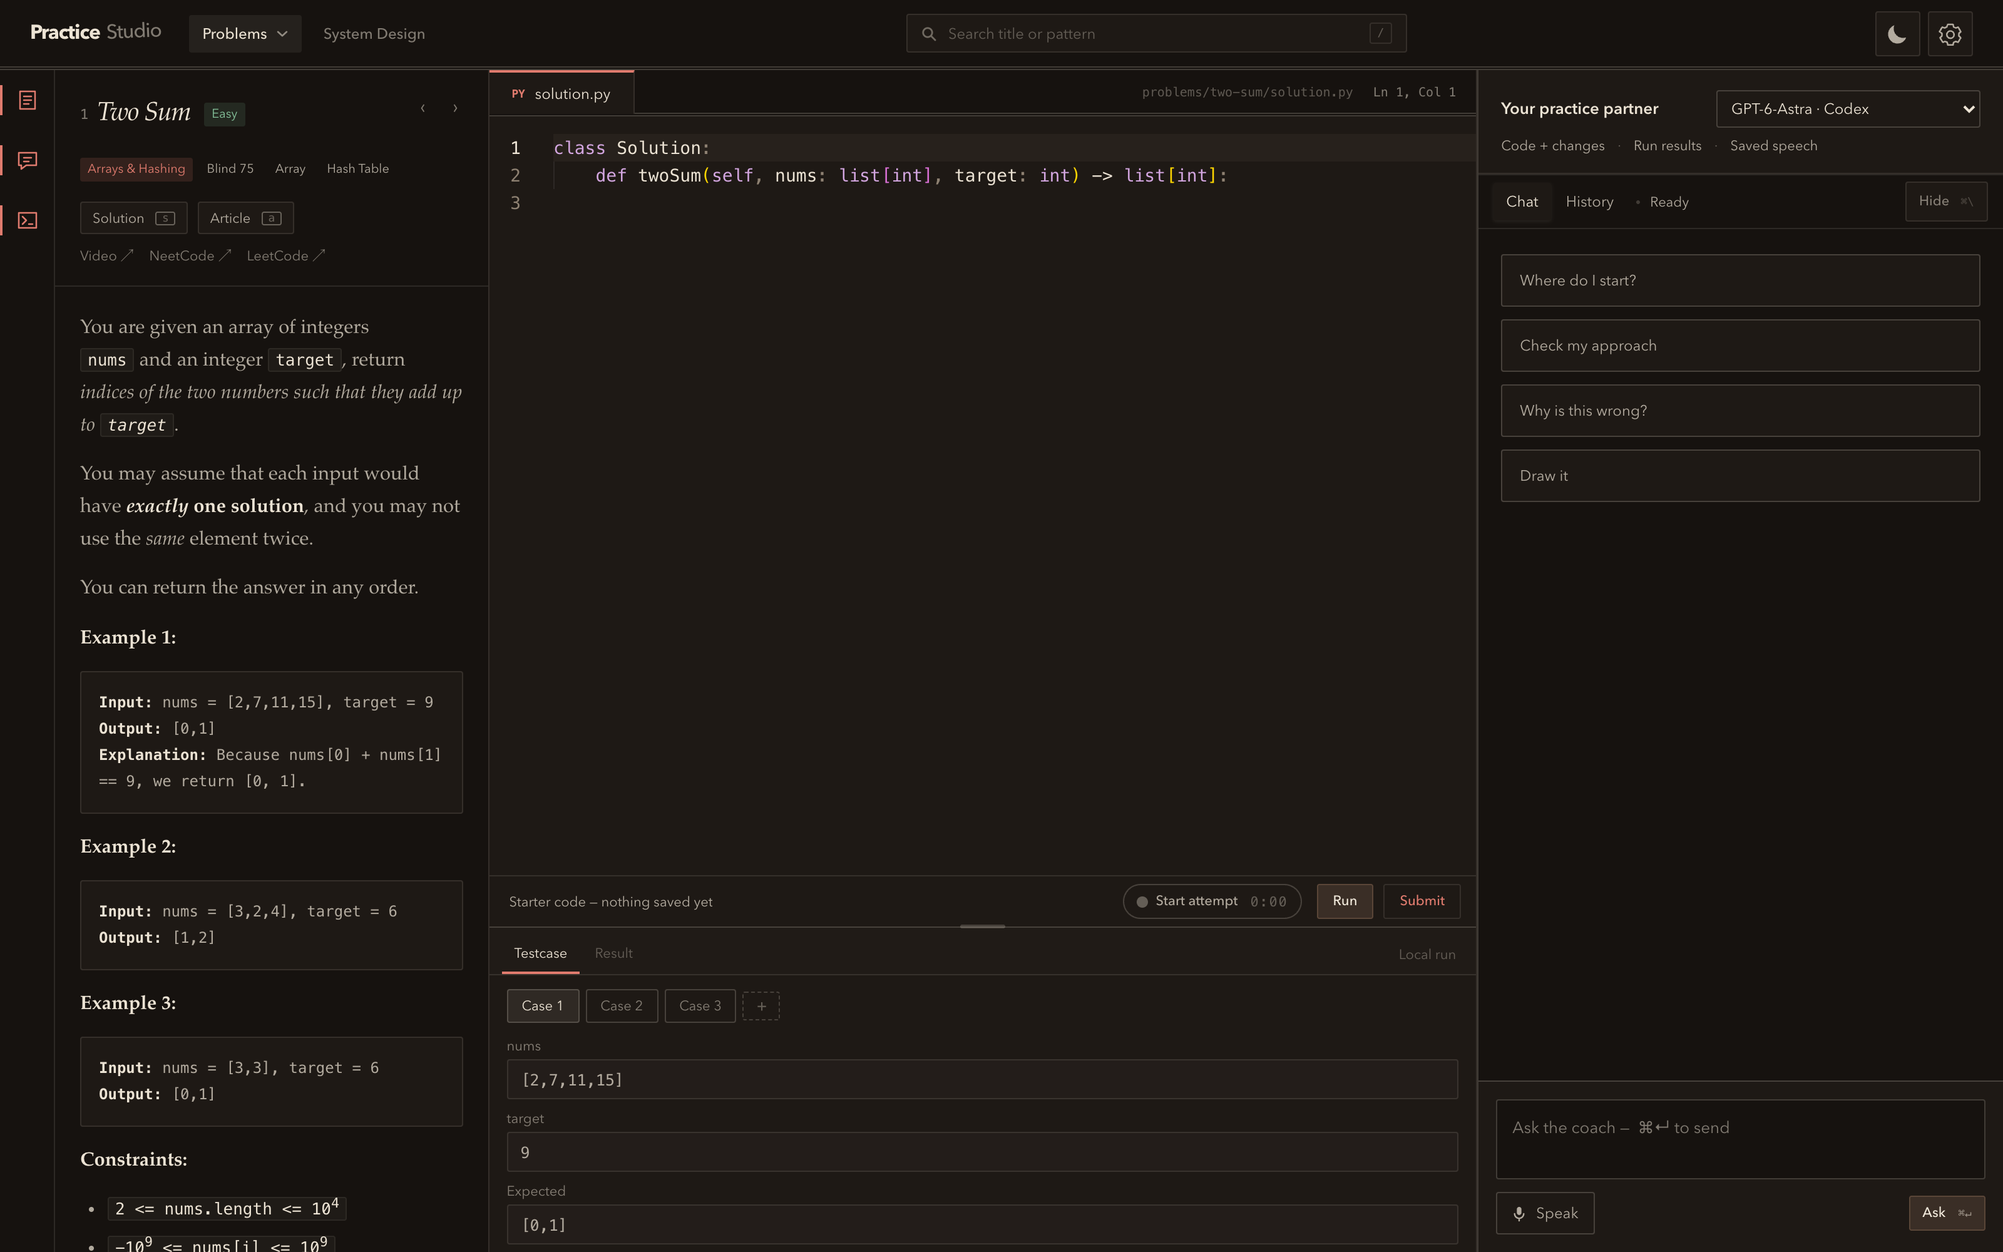
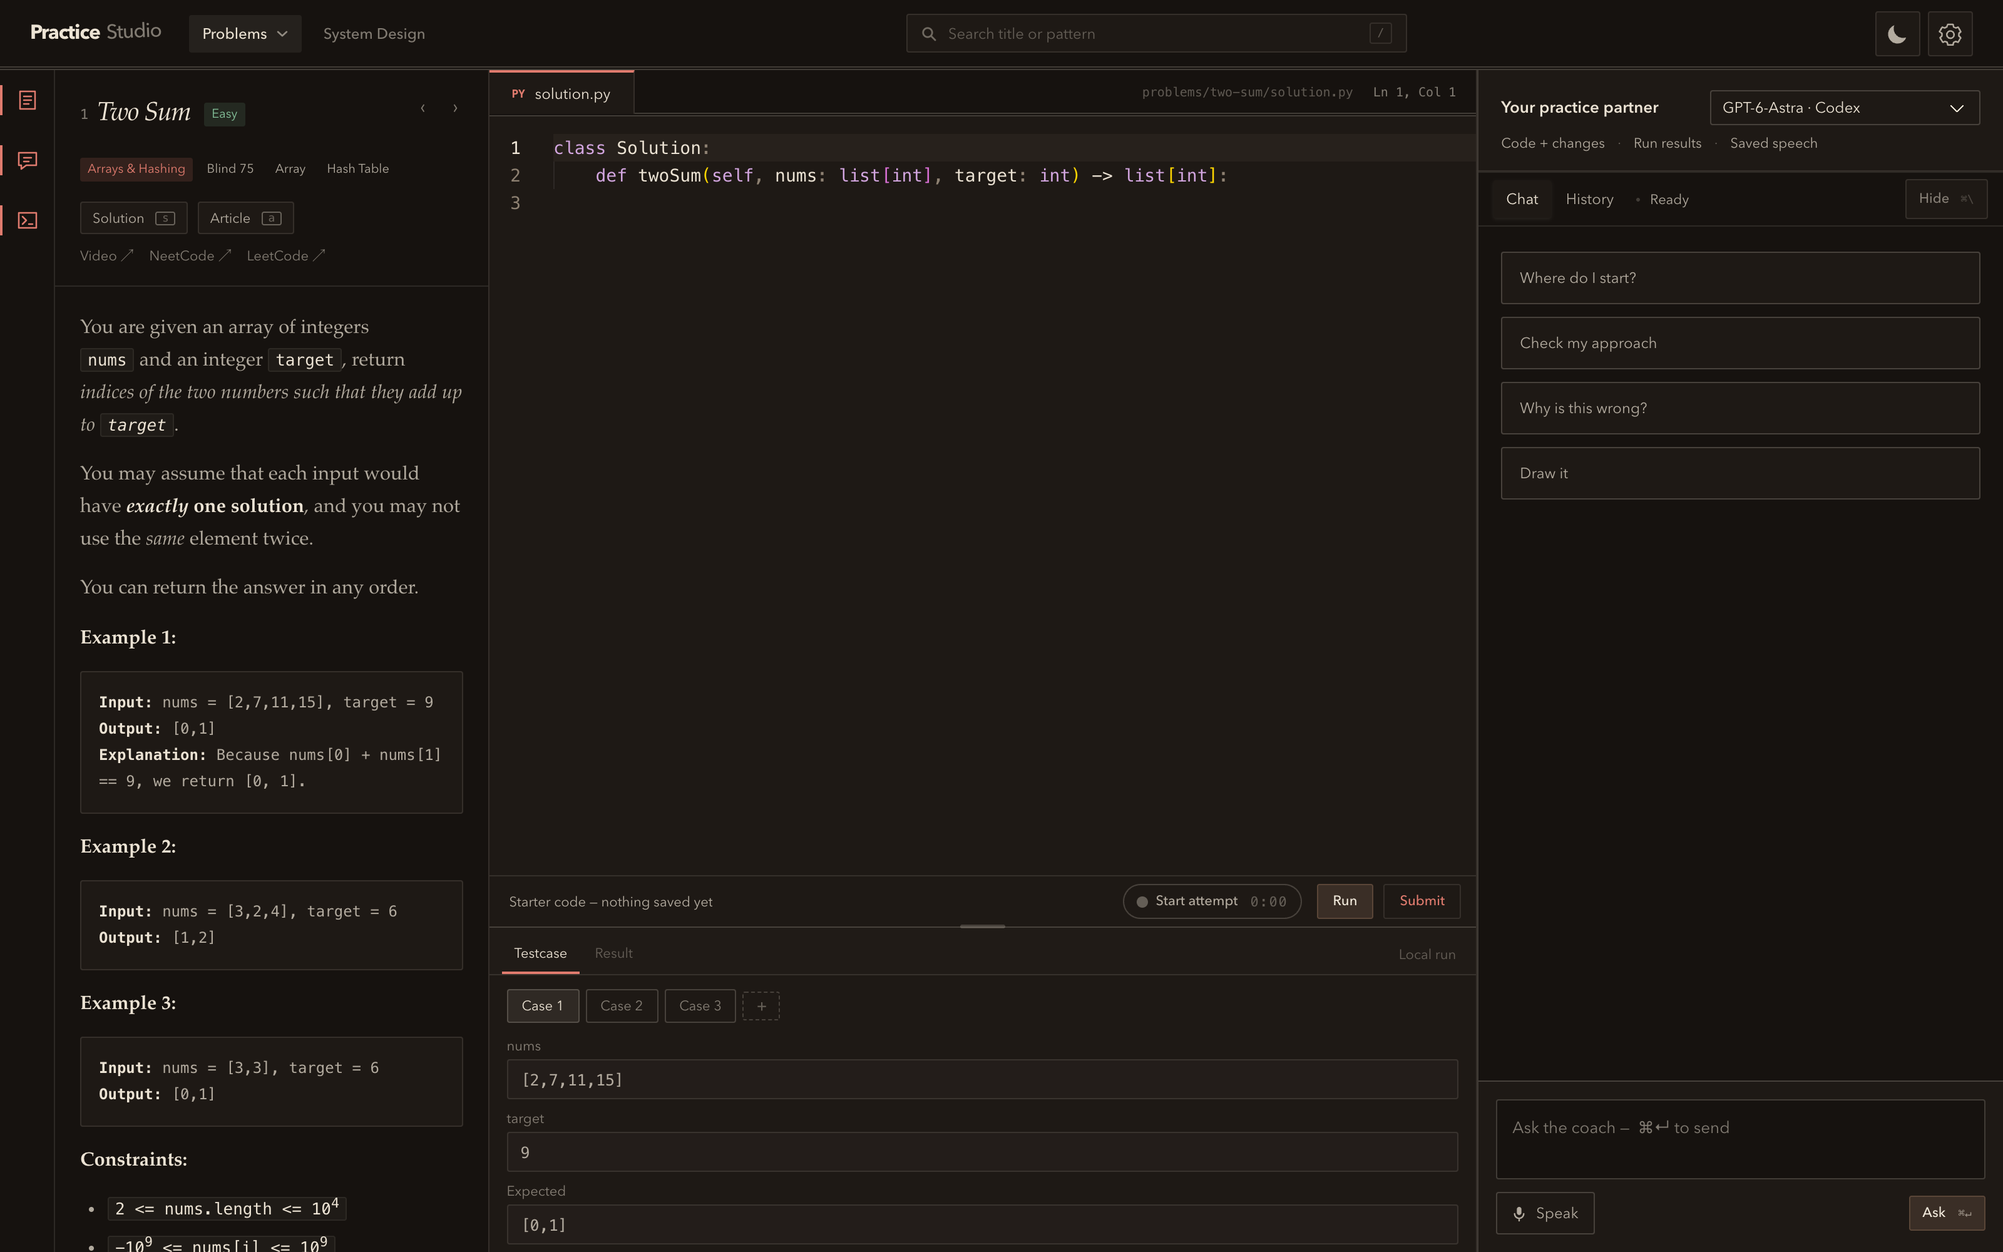
Give Ink and Terminal a structure of their own; pad the select arrow
Ink and Terminal read as Studio with a different font. Now:
- Ink: the top bar, editor tab strip and coach header are solid black bars (white
  in dark mode), inverted by re-scoping the palette tokens on them; 2px black rules
  between panes; heavy titles; outlined, bold chips.
- Terminal: panes are split windows with a 6px gap, the action bar is an inverted
  vim-style status line, tabs and bar buttons are [ bracketed ] words, headings get a
  $ prompt and the conversation # and > markers.

Selects draw their own chevron 12px in from the edge, in currentColor, instead of
the native arrow that sat flush against the border.

diff --git a/web/css/themes.css b/web/css/themes.css
@@ -219,6 +219,8 @@ body.theme-editorial.is-dark{
 }
 
 body.theme-ink{
+  --bar-bg:#0A0A0A;
+  --bar-rgb:255,255,255;
   --ink-rgb:10,10,10;
   --on-ink-rgb:237,237,234;
   --on-ink:#EDEDEA;
@@ -256,6 +258,8 @@ body.theme-ink{
 }
 
 body.theme-ink.is-dark{
+  --bar-bg:#F4F4F0;
+  --bar-rgb:11,11,11;
   --ink-rgb:244,244,240;
   --on-ink-rgb:11,11,11;
   --on-ink:#0B0B0B;
@@ -292,6 +296,8 @@ body.theme-ink.is-dark{
 }
 
 body.theme-terminal{
+  --line-bg:#17301F;
+  --line-rgb:243,241,231;
   --ink-rgb:23,48,31;
   --on-ink-rgb:243,241,231;
   --on-ink:#F3F1E7;
@@ -329,6 +335,8 @@ body.theme-terminal{
 }
 
 body.theme-terminal.is-dark{
+  --line-bg:#7EFFA8;
+  --line-rgb:5,11,7;
   --ink-rgb:126,255,168;
   --on-ink-rgb:5,11,7;
   --on-ink:#050B07;
@@ -384,21 +392,71 @@ body.theme-editorial .topbar,body.theme-editorial .editor-tabs{border-bottom:3px
 body.theme-editorial .rr-case,body.theme-editorial .prow{border-bottom:1px dashed var(--hair-20)}
 body.theme-editorial .desc{font-size:15px;line-height:1.8}
 
-body.theme-ink :is(.card,.psec,.dash-card,.roadmap-node,button,.tag,input,textarea,select){border-width:var(--rule)}
-body.theme-ink :is(.phero,.viewhead,.dash-head,.roadmap) h1{font-weight:800;letter-spacing:-.04em}
-body.theme-ink .editor-file{border-top-width:3px}
-body.theme-ink .rr-tab[aria-pressed="true"]{border-bottom-width:3px}
+/* INK — a Swiss poster. The headers of the app are solid black bars (white in dark mode),
+   rules are 2px and black, titles are heavy, and choices are solid chips. The bars are
+   inverted by re-scoping the palette tokens on them, so everything inside (search, nav,
+   the model picker, the file tab) inverts with them without a rule of its own. */
+body.theme-ink :is(.topbar,.editor-tabs,.coach-identity){
+  --ink-rgb:var(--bar-rgb);--ink:rgb(var(--bar-rgb));
+  --ink-70:rgba(var(--bar-rgb),.78);--ink-50:rgba(var(--bar-rgb),.62);--ink-35:rgba(var(--bar-rgb),.45);
+  --hair-20:rgba(var(--bar-rgb),.42);--hair-10:rgba(var(--bar-rgb),.26);--hair-06:rgba(var(--bar-rgb),.14);
+  --canvas:var(--bar-bg);--card:var(--bar-bg);
+  background:var(--bar-bg);color:var(--ink);border-bottom-color:var(--bar-bg)}
+body.theme-ink .topbar{border-bottom:0}
+body.theme-ink .editor-file{border-top-width:4px;border-right:0;font-weight:700}
+body.theme-ink :is(.card,.psec,.dash-card,.roadmap-node,button,.tag,input,textarea,select){border-width:2px}
+body.theme-ink :is(h1,h2,h3){font-weight:800;letter-spacing:-.035em}
+body.theme-ink :is(.viewhead,.dash-head,.roadmap) h1{font-size:44px;letter-spacing:-.05em}
+body.theme-ink.ws-wide .phero h1{font-size:28px;letter-spacing:-.05em}
+body.theme-ink .tag{background:transparent;border:2px solid currentColor;font-weight:700}
+body.theme-ink.ws-wide .tag.pattern{background:var(--accent);color:var(--on-ink);border-color:var(--accent)}
+body.theme-ink .rr-tab[aria-pressed="true"]{border-bottom-width:4px;border-bottom-color:var(--ink);font-weight:700}
+body.theme-ink.ws-wide .ws{border-inline:2px solid var(--ink)}
+body.theme-ink.ws-wide .ws>.ws-bar,body.theme-ink.ws-wide .rr-tabs{border-color:var(--ink);border-width:2px}
+body.theme-ink.ws-wide .workspace-rail{border-right:2px solid var(--ink)}
+body.theme-ink.ws-wide .coach{border-left:2px solid var(--ink)}
+body.theme-ink.ws-wide .paneltoggles{border-bottom:2px solid var(--ink)}
+body.theme-ink .workspace-rail button[aria-pressed="true"]{color:var(--ink)}
+body.theme-ink .workspace-rail button[aria-pressed="true"]::before{background:currentColor;width:4px}
 body.theme-ink .settings,body.theme-ink .navmenu,body.theme-ink:not(.ws-wide) .card,body.theme-ink .catalog .psec{box-shadow:var(--shadow)}
 /* Pressed choices go solid. Not tabs and the rail, whose pressed state is an underline or an
    accent mark, and not the day/night switch, whose pressed state just means "dark". */
 body.theme-ink button[aria-pressed="true"]:not(.workspace-rail button,.rr-tab,.coach-tab,.set-daynight),body.theme-ink .tc-tab.is-on{background:var(--solid-bg);color:var(--solid-fg);border-color:var(--solid-edge)}
-
-body.theme-terminal .topbar,body.theme-terminal .editor-tabs,body.theme-terminal .rr-case{border-bottom-style:dashed}
-body.theme-terminal .ws-run{background:var(--accent);color:var(--on-ink);border-color:var(--accent)}
-body.theme-terminal :is(h1,h2,h3),body.theme-terminal :is(.phero,.viewhead,.dash-head,.roadmap) h1{font-weight:600;letter-spacing:0}
-body.theme-terminal .cmsg.reply .cmsg-body{font-size:12px;line-height:1.8}
-
 body.theme-ink .set-card[aria-pressed="true"] :is(.set-cardname,.set-cardblurb){color:var(--solid-fg)}
+
+/* TERMINAL — a TUI in a tmux session. The panes are split windows with a gap between
+   them, the action bar is a vim status line, controls are [ bracketed ] words rather than
+   boxes, and the conversation reads as prompts. */
+body.theme-terminal.ws-wide{--pane-gap:6px}
+body.theme-terminal .topbar,body.theme-terminal .editor-tabs,body.theme-terminal .rr-case{border-bottom-style:dashed}
+@media(min-width:1081px){
+  body.theme-terminal.ws-wide .pbody.with-workspace{padding:6px 6px 6px 0}
+  body.theme-terminal.ws-wide .workspace-rail{border-right:0;background:transparent}
+  body.theme-terminal.ws-wide :is(.pcol,.ws,.coach){border:1px solid var(--hair-20);background:var(--card)}
+  body.theme-terminal.ws-wide .pcol{overflow-y:auto}
+}
+/* The status line: the palette flipped, like vim's. */
+body.theme-terminal.ws-wide .ws>.ws-bar{
+  --ink-rgb:var(--line-rgb);--ink:rgb(var(--line-rgb));
+  --ink-70:rgba(var(--line-rgb),.82);--ink-50:rgba(var(--line-rgb),.66);--ink-35:rgba(var(--line-rgb),.5);
+  --hair-20:rgba(var(--line-rgb),.45);--hair-10:rgba(var(--line-rgb),.3);--hair-06:rgba(var(--line-rgb),.16);
+  --card:var(--line-bg);--canvas:var(--line-bg);
+  background:var(--line-bg);color:var(--ink);border-top:0}
+body.theme-terminal.ws-wide .ws>.ws-bar .ws-run{background:var(--accent);color:var(--on-ink);border-color:var(--accent)}
+body.theme-terminal .ws-run{background:var(--accent);color:var(--on-ink);border-color:var(--accent)}
+body.theme-terminal :is(.ws-bar button,.rr-tab,.coach-tab,.tc-tab){border-color:transparent;background:transparent;box-shadow:none}
+body.theme-terminal :is(.ws-bar button,.rr-tab,.coach-tab,.tc-tab)::before{content:"[";margin-right:3px;opacity:.6}
+body.theme-terminal :is(.ws-bar button,.rr-tab,.coach-tab,.tc-tab)::after{content:"]";margin-left:3px;opacity:.6}
+body.theme-terminal :is(.rr-tab,.coach-tab)[aria-pressed="true"],body.theme-terminal .tc-tab.is-on,body.theme-terminal .ptoggle[aria-pressed="true"]{background:var(--line-bg);color:rgb(var(--line-rgb));border-color:var(--line-bg)}
+body.theme-terminal :is(h1,h2,h3){font-weight:600;letter-spacing:0}
+body.theme-terminal :is(.phero,.viewhead,.dash-head,.roadmap) h1::before{content:"$ ";color:var(--accent)}
+body.theme-terminal.is-dark :is(h1,h2,h3,.wordmark){text-shadow:0 0 8px rgba(var(--ink-rgb),.45)}
+body.theme-terminal .tag,body.theme-terminal .ptoggle{background:transparent;border:1px dashed currentColor}
+body.theme-terminal.ws-wide .ws>.ws-bar .ws-submit{color:var(--ink)}
+body.theme-terminal .cmsg-who::before{content:"# ";color:var(--accent)}
+body.theme-terminal .cmsg.you .cmsg-body::before{content:"> ";color:var(--accent)}
+body.theme-terminal .cmsg.reply .cmsg-body{font-size:12px;line-height:1.8}
+body.theme-terminal .coach-input{caret-color:var(--accent)}
 
 /* Each card previews both modes, independently of the active appearance. */
 .set-seg{display:flex;gap:3px;padding:3px;border:1px solid var(--hair-20);border-radius:var(--r-md);background:var(--canvas)}

diff --git a/docs/showcase.html b/docs/showcase.html
@@ -34,7 +34,7 @@
   <div class="feature-copy"><span class="eyebrow">03 / The board is part of the conversation</span><h2>It follows<br>your architecture.</h2><p>Draw on a real Excalidraw canvas. Studio turns components and connections into a graph for the interviewer, including what changed since the last turn.</p><blockquote>“You said the creation service populates Redis, but the board only connects it to Postgres.”</blockquote><p class="fine">Scripted demo response. In real interviews, the latest board graph accompanies your next answer.</p></div>
   <figure><img src="images/system-design.png" width="3200" height="2000" loading="lazy" alt="URL-shortener whiteboard beside an interviewer challenging a missing cache-write connection"><figcaption>A missing arrow becomes a question about failure behavior.</figcaption></figure>
 </section>
-<section class="themes" id="themes"><div class="section-head"><div><span class="eyebrow">Five themes. Light and dark.</span><h2>Find your atmosphere.</h2></div><p>Each treatment changes how evidence reads.<br>Choose the one that helps you stay with the work.</p></div><div class="theme-controls" role="group" aria-label="Preview a workspace theme"></div><figure class="theme-stage"><img id="theme-image" src="images/theme-studio-light.png" width="3200" height="2000" loading="lazy" alt="Studio theme: clean and docked, panes meet edge to edge"><figcaption id="theme-caption">Studio — clean and docked, panes meet edge to edge.</figcaption></figure><div class="theme-notes"><p><b>Studio</b> docks the panes edge to edge. <b>Desk</b> floats them on warm paper. <b>Editorial</b> sets prose in serif with double rules. <b>Ink</b> uses hard edges and heavy rules. <b>Terminal</b> is monospaced throughout. Each one has a light and a dark mode.</p></div></section>
+<section class="themes" id="themes"><div class="section-head"><div><span class="eyebrow">Five themes. Light and dark.</span><h2>Find your atmosphere.</h2></div><p>Each treatment changes how evidence reads.<br>Choose the one that helps you stay with the work.</p></div><div class="theme-controls" role="group" aria-label="Preview a workspace theme"></div><figure class="theme-stage"><img id="theme-image" src="images/theme-studio-light.png" width="3200" height="2000" loading="lazy" alt="Studio theme: clean and docked, panes meet edge to edge"><figcaption id="theme-caption">Studio — clean and docked, panes meet edge to edge.</figcaption></figure><div class="theme-notes"><p><b>Studio</b> docks the panes edge to edge. <b>Desk</b> floats them on warm paper. <b>Editorial</b> sets prose in serif with double rules. <b>Ink</b> sets the headers in solid black bars with heavy rules. <b>Terminal</b> splits the panes like tmux, with a vim status line and bracketed controls. Each one has a light and a dark mode.</p></div></section>
 <section class="start" id="start"><span class="eyebrow">Local first. Source available.</span><h2>Your machine.<br><em>Your practice.</em></h2><div class="start-grid"><div><p>No Studio account. No hosted Studio backend. Your solutions, transcripts, and session records live on disk.</p><p class="fine">macOS · Node 22+ · Python 3. Claude Code is optional for coaching; voice additionally needs Swift 6, macOS 14+, and the speech model.</p><a class="button" href="https://github.com/dhirajcdry/practice-studio">Explore the repository ↗</a></div><pre><code>git clone https://github.com/dhirajcdry/practice-studio.git
 cd practice-studio
 npm start

diff --git a/web/css/app.css b/web/css/app.css
@@ -76,6 +76,12 @@ body{
 ::selection{background:var(--ink);color:var(--canvas)}
 a{color:inherit}
 button{font:inherit;color:inherit;background:none;border:0;cursor:pointer}
+/* The native select arrow sits flush against the right edge and ignores padding. This
+   one is drawn in currentColor, so it follows every theme, and sits 12px in. Rules that
+   colour a select set background-color, never the shorthand, or this disappears. */
+select:not([multiple]){appearance:none;-webkit-appearance:none;cursor:pointer;
+  background-image:linear-gradient(45deg,transparent 42%,currentColor 42%,currentColor 58%,transparent 58%),linear-gradient(-45deg,transparent 42%,currentColor 42%,currentColor 58%,transparent 58%);
+  background-position:calc(100% - 17.5px) 55%,calc(100% - 12.5px) 55%;background-size:5.5px 5.5px;background-repeat:no-repeat}
 :focus-visible{outline:2px solid var(--ink);outline-offset:2px;border-radius:var(--r-sm)}
 
 .mono{font-family:var(--mono);font-size:11px;letter-spacing:0;text-transform:none;font-weight:500;line-height:1.5}
@@ -867,7 +873,7 @@ body.coach-open .coach-launch{display:none}
 }
 .coach-identity-row{display:flex;align-items:center;justify-content:space-between;gap:8px;flex-wrap:wrap}
 .coach-model-picker{min-width:0;display:flex;flex-direction:column;gap:4px}
-.coach-model-select{max-width:100%;min-width:0;border:1px solid var(--hair-20);border-radius:var(--r-sm);background:var(--card);color:var(--ink);padding:5px 7px;font:12px var(--ui)}
+.coach-model-select{max-width:100%;min-width:0;border:1px solid var(--hair-20);border-radius:var(--r-sm);background-color:var(--card);color:var(--ink);padding:5px 30px 5px 9px;font:12px var(--ui)}
 .coach-model-picker.is-compact{max-width:220px;flex:0 1 auto}
 .coach-model-notice{font-size:12px;color:var(--hard);overflow-wrap:anywhere}
 .coach-model-notice[hidden]{display:none}

diff --git a/web/js/settings.js b/web/js/settings.js
@@ -14,8 +14,8 @@ export const THEMES = [
   { id: 'studio', name: 'Studio', blurb: 'Clean and docked. Panes meet edge to edge.', light: { paper: '#F3F4F6', ink: '#111111', accent: '#355DCC' }, dark: { paper: '#131518', ink: '#E8EAED', accent: '#91A7FF' } },
   { id: 'desk', name: 'Desk', blurb: 'Soft and rounded. Panes float on warm paper.', light: { paper: '#F6F4F0', ink: '#181818', accent: '#BD5F3C' }, dark: { paper: '#171513', ink: '#EEE8E0', accent: '#E2875F' } },
   { id: 'editorial', name: 'Editorial', blurb: 'Serif prose, double rules, a printed page.', light: { paper: '#F4EFE6', ink: '#1A1614', accent: '#9B2C2C' }, dark: { paper: '#16120F', ink: '#ECE3D4', accent: '#E07B6E' } },
-  { id: 'ink', name: 'Ink', blurb: 'Hard edges, heavy rules, no rounding.', light: { paper: '#EDEDEA', ink: '#0A0A0A', accent: '#1B49F5' }, dark: { paper: '#0B0B0B', ink: '#F4F4F0', accent: '#6E8BFF' } },
-  { id: 'terminal', name: 'Terminal', blurb: 'Monospaced everything. A command log.', light: { paper: '#F3F1E7', ink: '#17301F', accent: '#A35F00' }, dark: { paper: '#050B07', ink: '#7EFFA8', accent: '#FFC24B' } },
+  { id: 'ink', name: 'Ink', blurb: 'Black header bars, heavy rules, no rounding.', light: { paper: '#EDEDEA', ink: '#0A0A0A', accent: '#1B49F5' }, dark: { paper: '#0B0B0B', ink: '#F4F4F0', accent: '#6E8BFF' } },
+  { id: 'terminal', name: 'Terminal', blurb: 'Split panes, a status line, [ bracketed ] controls.', light: { paper: '#F3F1E7', ink: '#17301F', accent: '#A35F00' }, dark: { paper: '#050B07', ink: '#7EFFA8', accent: '#FFC24B' } },
 ];
 
 export function themeById(id) {

diff --git a/web/css/roadmap.css b/web/css/roadmap.css
@@ -11,7 +11,7 @@
 .roadmap-chips .chip{font:12px var(--ui);padding:8px 12px;border:1px solid var(--hair-10);border-radius:var(--r-sm);color:var(--ink-70)}
 .roadmap-chips .chip[aria-pressed=true]{background:var(--accent-soft);border-color:var(--accent);color:var(--accent)}
 .roadmap-level{margin-left:auto;font:12px var(--ui);color:var(--ink-50);white-space:nowrap}
-.roadmap-level select{margin-left:8px;background:var(--card);color:var(--ink);border:1px solid var(--hair-10);border-radius:var(--r-sm);padding:7px;font:12px var(--ui)}
+.roadmap-level select{margin-left:8px;background-color:var(--card);color:var(--ink);border:1px solid var(--hair-10);border-radius:var(--r-sm);padding:7px 30px 7px 10px;font:12px var(--ui)}
 .roadmap-query{font:12px var(--ui);color:var(--ink-70);margin-bottom:14px}.roadmap-query button{margin-left:12px;color:var(--accent)}
 .roadmap-graph-col{border:1px solid var(--hair-10);border-radius:var(--r-md);background:var(--card);overflow:hidden}
 .roadmap-toolbar{height:42px;display:flex;align-items:center;justify-content:space-between;gap:10px;padding:0 18px;border-bottom:1px solid var(--hair-10)}

diff --git a/web/css/design.css b/web/css/design.css
@@ -221,7 +221,7 @@ main:has(.dz-view){max-width:none;padding:16px 20px 20px}
 .dz-setup p{font:13px/1.6 var(--ui);color:var(--ink-70);margin:0 0 20px}
 .dz-setup-fields{display:flex;flex-wrap:wrap;gap:16px;align-items:end}
 .dz-setup label{display:flex;flex-direction:column;gap:7px;font:12px var(--ui);color:var(--ink-70)}
-.dz-setup select{background:var(--canvas);color:var(--ink);border:1px solid var(--hair-20);border-radius:var(--r-sm);padding:10px;min-width:150px;font:13px var(--ui)}
+.dz-setup select{background-color:var(--canvas);color:var(--ink);border:1px solid var(--hair-20);border-radius:var(--r-sm);padding:10px 32px 10px 11px;min-width:150px;font:13px var(--ui)}
 
 @media(max-width:1100px) and (min-width:861px){.dz-split{grid-template-columns:minmax(0,1fr) 360px;grid-template-rows:minmax(0,1fr)}}
 @media(max-width:860px){

diff --git a/docs/showcase.js b/docs/showcase.js
@@ -2,8 +2,8 @@ const themes = [
   ['studio', 'Studio', '#f3f4f6', 'clean and docked, panes meet edge to edge'],
   ['desk', 'Desk', '#f6f4f0', 'soft and rounded, panes float on warm paper'],
   ['editorial', 'Editorial', '#f4efe6', 'serif annotations, dashed rules, oxblood accents'],
-  ['ink', 'Ink', '#1b49f5', 'electric blue, bold contrast, hard edges'],
-  ['terminal', 'Terminal', '#f3f1e7', 'monospaced everything, a command log'],
+  ['ink', 'Ink', '#1b49f5', 'black header bars, heavy rules, no rounding'],
+  ['terminal', 'Terminal', '#f3f1e7', 'split panes, a status line, bracketed controls'],
 ];
 const controls = document.querySelector('.theme-controls');
 for (const [id, name, color, description] of themes) {

diff --git a/README.md b/README.md
@@ -106,12 +106,12 @@ the sun/moon button. Both are stored locally.
 <td><a href="docs/images/theme-ink-light.png"><img src="docs/images/theme-ink-light.png" alt="Ink theme, light" width="100%"></a></td>
 <td><a href="docs/images/theme-ink-dark.png"><img src="docs/images/theme-ink-dark.png" alt="Ink theme, dark" width="100%"></a></td>
 </tr>
-<tr><td colspan="2"><strong>Ink</strong> · <sub>Hard edges, heavy rules, no rounding.</sub></td></tr>
+<tr><td colspan="2"><strong>Ink</strong> · <sub>Black header bars, heavy rules, no rounding.</sub></td></tr>
 <tr>
 <td><a href="docs/images/theme-terminal-light.png"><img src="docs/images/theme-terminal-light.png" alt="Terminal theme, light" width="100%"></a></td>
 <td><a href="docs/images/theme-terminal-dark.png"><img src="docs/images/theme-terminal-dark.png" alt="Terminal theme, dark" width="100%"></a></td>
 </tr>
-<tr><td colspan="2"><strong>Terminal</strong> · <sub>Monospaced everything. A command log.</sub></td></tr>
+<tr><td colspan="2"><strong>Terminal</strong> · <sub>Split panes, a status line, [ bracketed ] controls.</sub></td></tr>
 </table>
 
 ## Quick start
